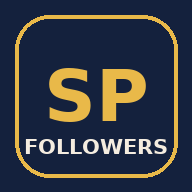
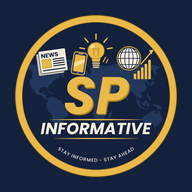
स्वागत स्क्रीन, SP लोगो, एका दाबण्यात dark mode
Claude-Session: https://claude.ai/code/session_01R5BqFTsbTMXvRMaahM7AxT

diff --git a/index.html b/index.html
@@ -42,6 +42,13 @@ h2 small{font:500 13px 'Hind',sans-serif;color:var(--mute)}
 .empty{color:var(--mute);font-size:14px;padding:8px 4px}
 .spin{display:inline-block;width:14px;height:14px;border:2px solid var(--gold);border-top-color:transparent;border-radius:50%;animation:s .8s linear infinite;vertical-align:-2px;margin-right:6px}
 @keyframes s{to{transform:rotate(360deg)}}
+#welcome{display:none;min-height:100vh;background:var(--navy);color:var(--bg);flex-direction:column;align-items:center;justify-content:center;text-align:center;padding:calc(24px + env(safe-area-inset-top)) 26px 32px}
+#welcome img{width:132px;height:132px;border-radius:50%;margin-bottom:20px}
+#welcome h1{font-family:'Poppins',sans-serif;color:var(--gold);font-size:28px;font-weight:700;margin-bottom:6px}
+#welcome .tag{font-size:16px;margin-bottom:24px}
+#welcome ul{list-style:none;text-align:left;font-size:15px;line-height:2;margin-bottom:30px}
+#welcome .go{width:100%;max-width:340px;background:var(--gold);color:var(--navy);border:0;border-radius:14px;padding:14px;font:600 17px 'Hind',sans-serif}
+#welcome .by{font-size:12px;color:#9B9BA3;margin-top:16px}
 #settings{display:none;padding:14px;max-width:560px;margin:0 auto}
 label{display:block;font-weight:600;font-size:14px;margin:14px 0 5px}
 input,textarea{width:100%;border:1.5px solid var(--line);background:var(--inp);border-radius:10px;padding:11px;font:15px 'Hind',sans-serif;color:var(--ink)}
@@ -52,6 +59,15 @@ input,textarea{width:100%;border:1.5px solid var(--line);background:var(--inp);b
 </style>
 </head>
 <body>
+<section id="welcome">
+  <img src="logo.webp" alt="SP Informative">
+  <h1>SP Followers</h1>
+  <div class="tag">तुमचे सगळे फॉलोअर्स, एकाच जागी</div>
+  <ul><li>• YouTube आणि Instagram एकत्र</li><li>• नावं आणि फोटो आपोआप</li><li>• Dark mode आणि रिफ्रेश</li></ul>
+  <button class="go" id="btnGo">सुरू करा</button>
+  <div class="by">by SP Informative</div>
+</section>
+<div id="app">
 <header>
   <h1>SP Followers</h1>
   <div class="hbtns">
@@ -96,6 +112,7 @@ input,textarea{width:100%;border:1.5px solid var(--line);background:var(--inp);b
   <button class="btn sec" id="btnClear">सर्व साठवलेली माहिती पुसा</button>
   <button class="btn" id="btnBack" style="background:transparent;color:var(--ink);border:1.5px solid var(--ink)">मागे</button>
 </section>
+</div>
 
 <script>
 (function(){
@@ -179,18 +196,15 @@ input,textarea{width:100%;border:1.5px solid var(--line);background:var(--inp);b
     else box.appendChild(el('div','ok','Instagram token: '+days+' दिवस उरले'));
   }
 
-  var ICON={auto:'🌓',light:'☀',dark:'🌙'};
   function applyTheme(){
     var m=localStorage.getItem('spf_theme')||'auto';
     var t=m==='auto'?(matchMedia('(prefers-color-scheme: dark)').matches?'dark':'light'):m;
     document.documentElement.dataset.theme=t;
-    $('btnTheme').textContent=ICON[m];
-    var tc=document.querySelector('meta[name=theme-color]');if(tc)tc.content='#14213D';
+    $('btnTheme').textContent=(t==='dark')?'🌙':'☀';
   }
   $('btnTheme').onclick=function(){
-    var m=localStorage.getItem('spf_theme')||'auto';
-    var n={auto:'light',light:'dark',dark:'auto'}[m];
-    try{localStorage.setItem('spf_theme',n)}catch(e){}
+    var t=document.documentElement.dataset.theme==='dark'?'light':'dark';
+    try{localStorage.setItem('spf_theme',t)}catch(e){}
     applyTheme();
   };
   try{matchMedia('(prefers-color-scheme: dark)').addEventListener('change',applyTheme)}catch(e){}
@@ -238,7 +252,10 @@ input,textarea{width:100%;border:1.5px solid var(--line);background:var(--inp);b
   // सुरुवात: जुनी माहिती लगेच दाखवा, मग रिफ्रेश
   var c0=null;try{c0=JSON.parse(localStorage.getItem(K.cache))}catch(e){}
   if(c0){c0.stale=true;render(c0)}
-  if(!get('ytKey')&&!get('igToken')){showSettings(true)}else refresh();
+  function startApp(){ $('welcome').style.display='none';$('app').style.display='block'; if(!get('ytKey')&&!get('igToken')){showSettings(true)}else refresh(); }
+  var seen='';try{seen=localStorage.getItem('spf_welcomed')||''}catch(e){}
+  if(seen){startApp()}else{$('app').style.display='none';$('welcome').style.display='flex'}
+  $('btnGo').onclick=function(){try{localStorage.setItem('spf_welcomed','1')}catch(e){};startApp()};
   tokenInfo();
   if('serviceWorker' in navigator){navigator.serviceWorker.register('sw.js').catch(function(){})}
 })();

diff --git a/sw.js b/sw.js
@@ -1,5 +1,5 @@
-const CACHE = 'spf-shell-v3';
-const SHELL = ['./', 'index.html', 'manifest.webmanifest', 'icon-192.png', 'icon-512.png', 'apple-touch-icon.png'];
+const CACHE = 'spf-shell-v4';
+const SHELL = ['./', 'index.html', 'manifest.webmanifest', 'icon-192.png', 'icon-512.png', 'apple-touch-icon.png', 'logo.webp'];
 
 self.addEventListener('install', e => {
   e.waitUntil(caches.open(CACHE).then(c => c.addAll(SHELL)).then(() => self.skipWaiting()));
